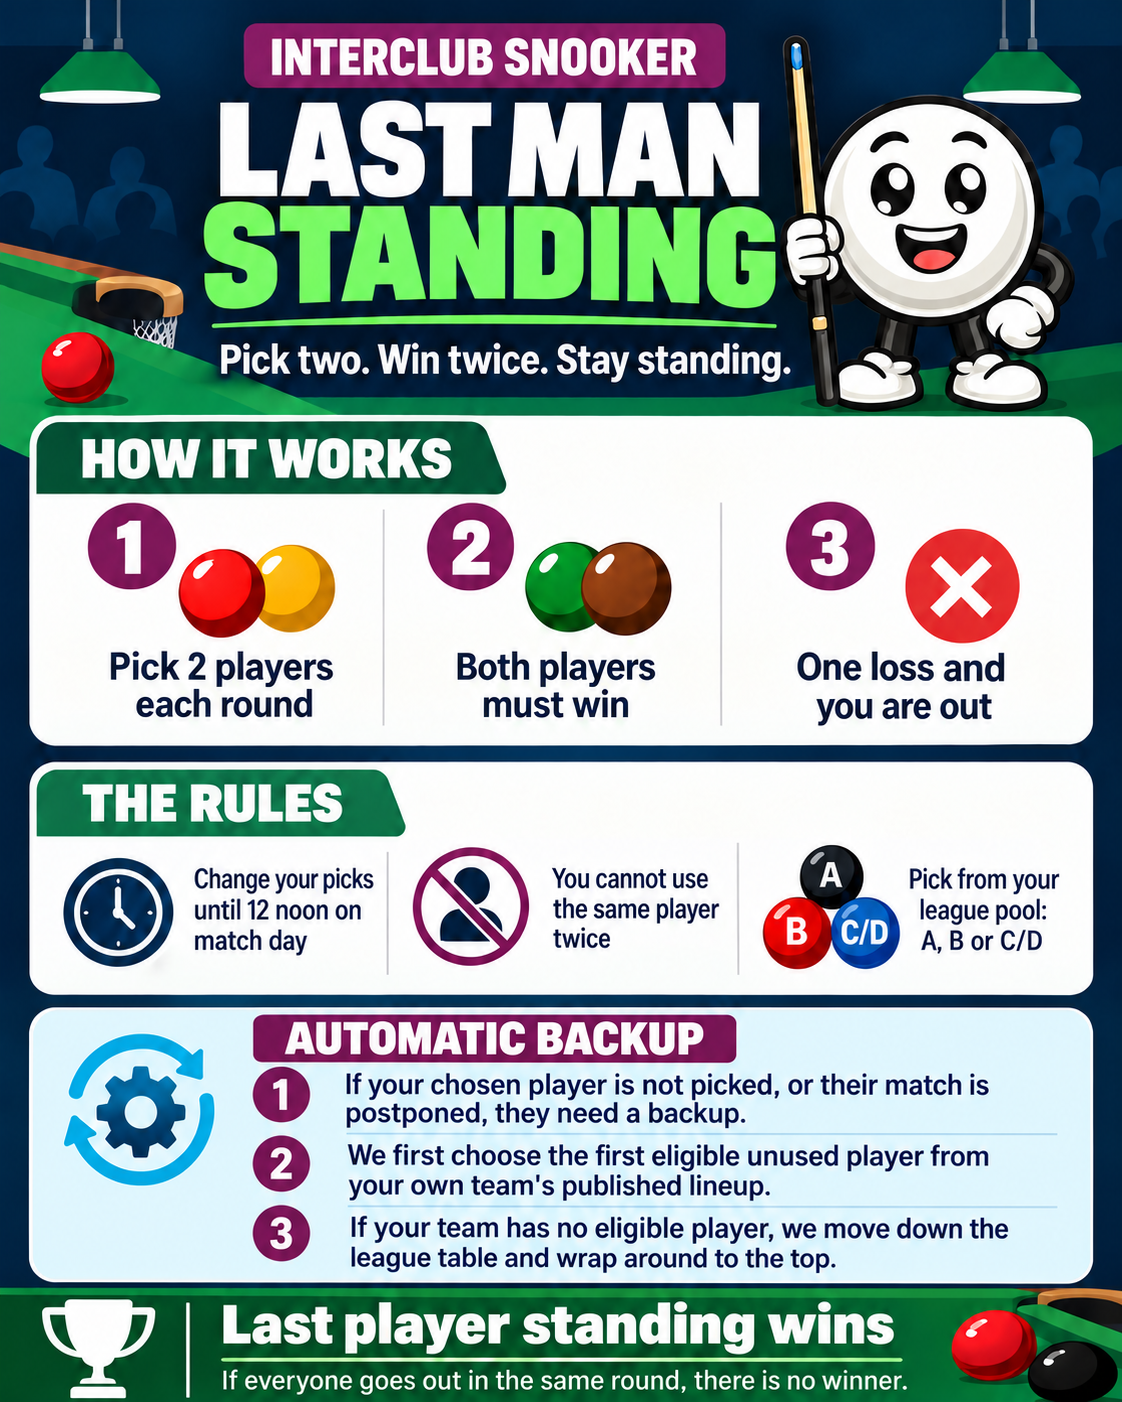
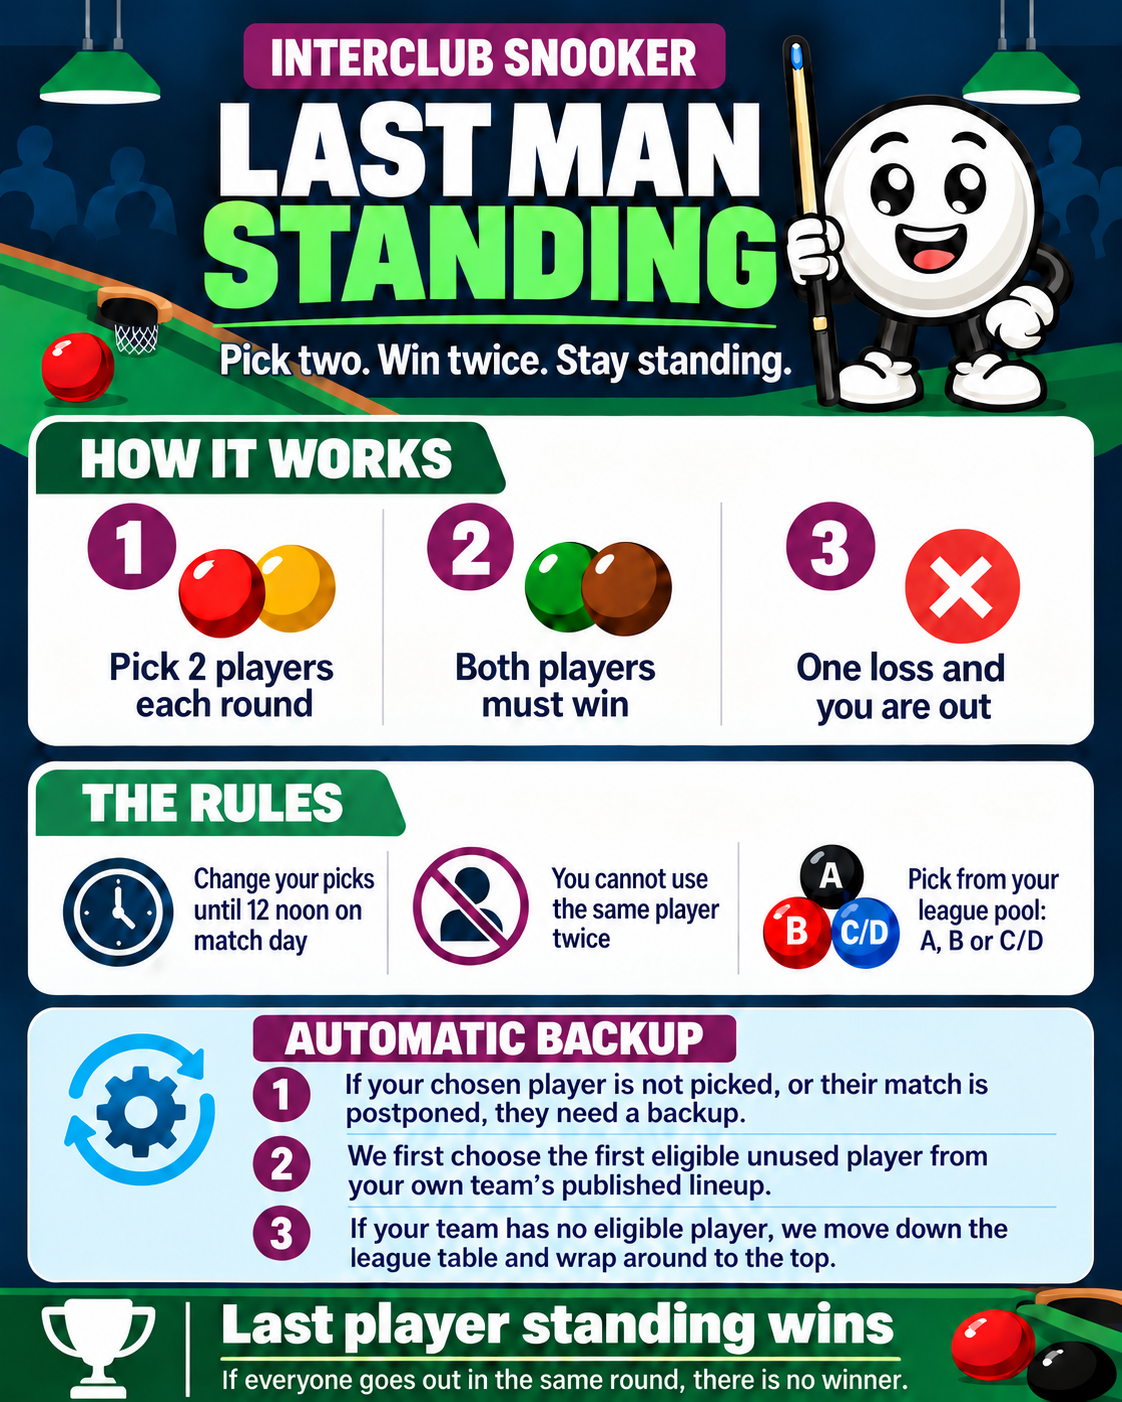
Polish Last Man Standing admin and explainer

diff --git a/components/admin-last-man-standing.tsx b/components/admin-last-man-standing.tsx
@@ -294,7 +294,6 @@ export function AdminLastManStanding({ onMessage }: { onMessage: (message: strin
             {competition.unresolved_picks?.length ? <div className="grid gap-2"><p className="text-xs font-extrabold uppercase text-[#6c5a73]">Unresolved picks</p>{competition.unresolved_picks.map((pick) => <div key={pick.id} className="grid gap-2 rounded-lg border border-amber-200 bg-amber-50 p-3 sm:grid-cols-[1fr_minmax(220px,1fr)_auto] sm:items-end"><div><p className="text-sm font-extrabold">{pick.entrantName} · Pick {pick.slotNumber}</p><p className="text-xs font-bold text-[#6c5a73]">{pick.reason || "No eligible automatic player was found."}</p></div><label className="grid gap-1 text-xs font-bold uppercase text-[#6c5a73]">Replacement<select className="min-h-10 rounded-lg border bg-white px-2 text-sm normal-case text-[#25002b]" value={resolutionPlayers[pick.id] ?? ""} onChange={(event) => setResolutionPlayers((current) => ({ ...current, [pick.id]: event.target.value }))}><option value="">Choose player</option>{pick.candidates.map((candidate) => <option key={candidate.id} value={candidate.id}>{candidate.name} · {candidate.teamName}</option>)}</select></label><Button size="sm" onClick={() => resolvePick(competition, pick.id)}>Resolve pick</Button></div>)}</div> : null}
             {competition.entries?.length ? <details className="rounded-lg border p-3"><summary className="cursor-pointer text-sm font-extrabold">Entrants and picks · {competition.entries.length}</summary><div className="mt-3 grid gap-2">{competition.entries.map((entry) => <div key={entry.id} className="rounded-lg bg-[#f7f5fa] p-3"><div className="flex flex-wrap items-center justify-between gap-2"><p className="text-sm font-extrabold">{entry.name} · {entry.teamName}</p><Badge variant={entry.status === "Eliminated" ? "muted" : "green"}>{entry.status}</Badge></div><p className="mt-1 text-xs font-bold text-[#6c5a73]">{entry.tier} pool{entry.picks.length ? ` · ${entry.picks.map((pick) => `${pick.roundName} P${pick.slotNumber}: ${pick.playerName} (${pick.state}, ${pick.outcome})`).join(" · ")}` : " · No picks"}</p></div>)}</div></details> : null}
             <details className="rounded-lg border px-3 py-2"><summary className="cursor-pointer text-sm font-extrabold text-[#6c5a73]">Fallback tools</summary><div className="mt-2"><Button size="sm" variant="secondary" onClick={() => processCompetition(competition)}><RefreshCw className="h-4 w-4" /> Process now</Button></div></details>
-            {competition.events.length ? <div><p className="mb-2 text-xs font-extrabold uppercase text-[#6c5a73]">Recent activity</p><div className="grid gap-1">{competition.events.slice(0, 8).map((event) => <p key={event.id} className="text-xs font-semibold text-[#6c5a73]">{new Date(event.createdAt).toLocaleString("en-IE")} · {event.eventType}</p>)}</div></div> : null}
           </div> : null}
         </article>;
       })}
